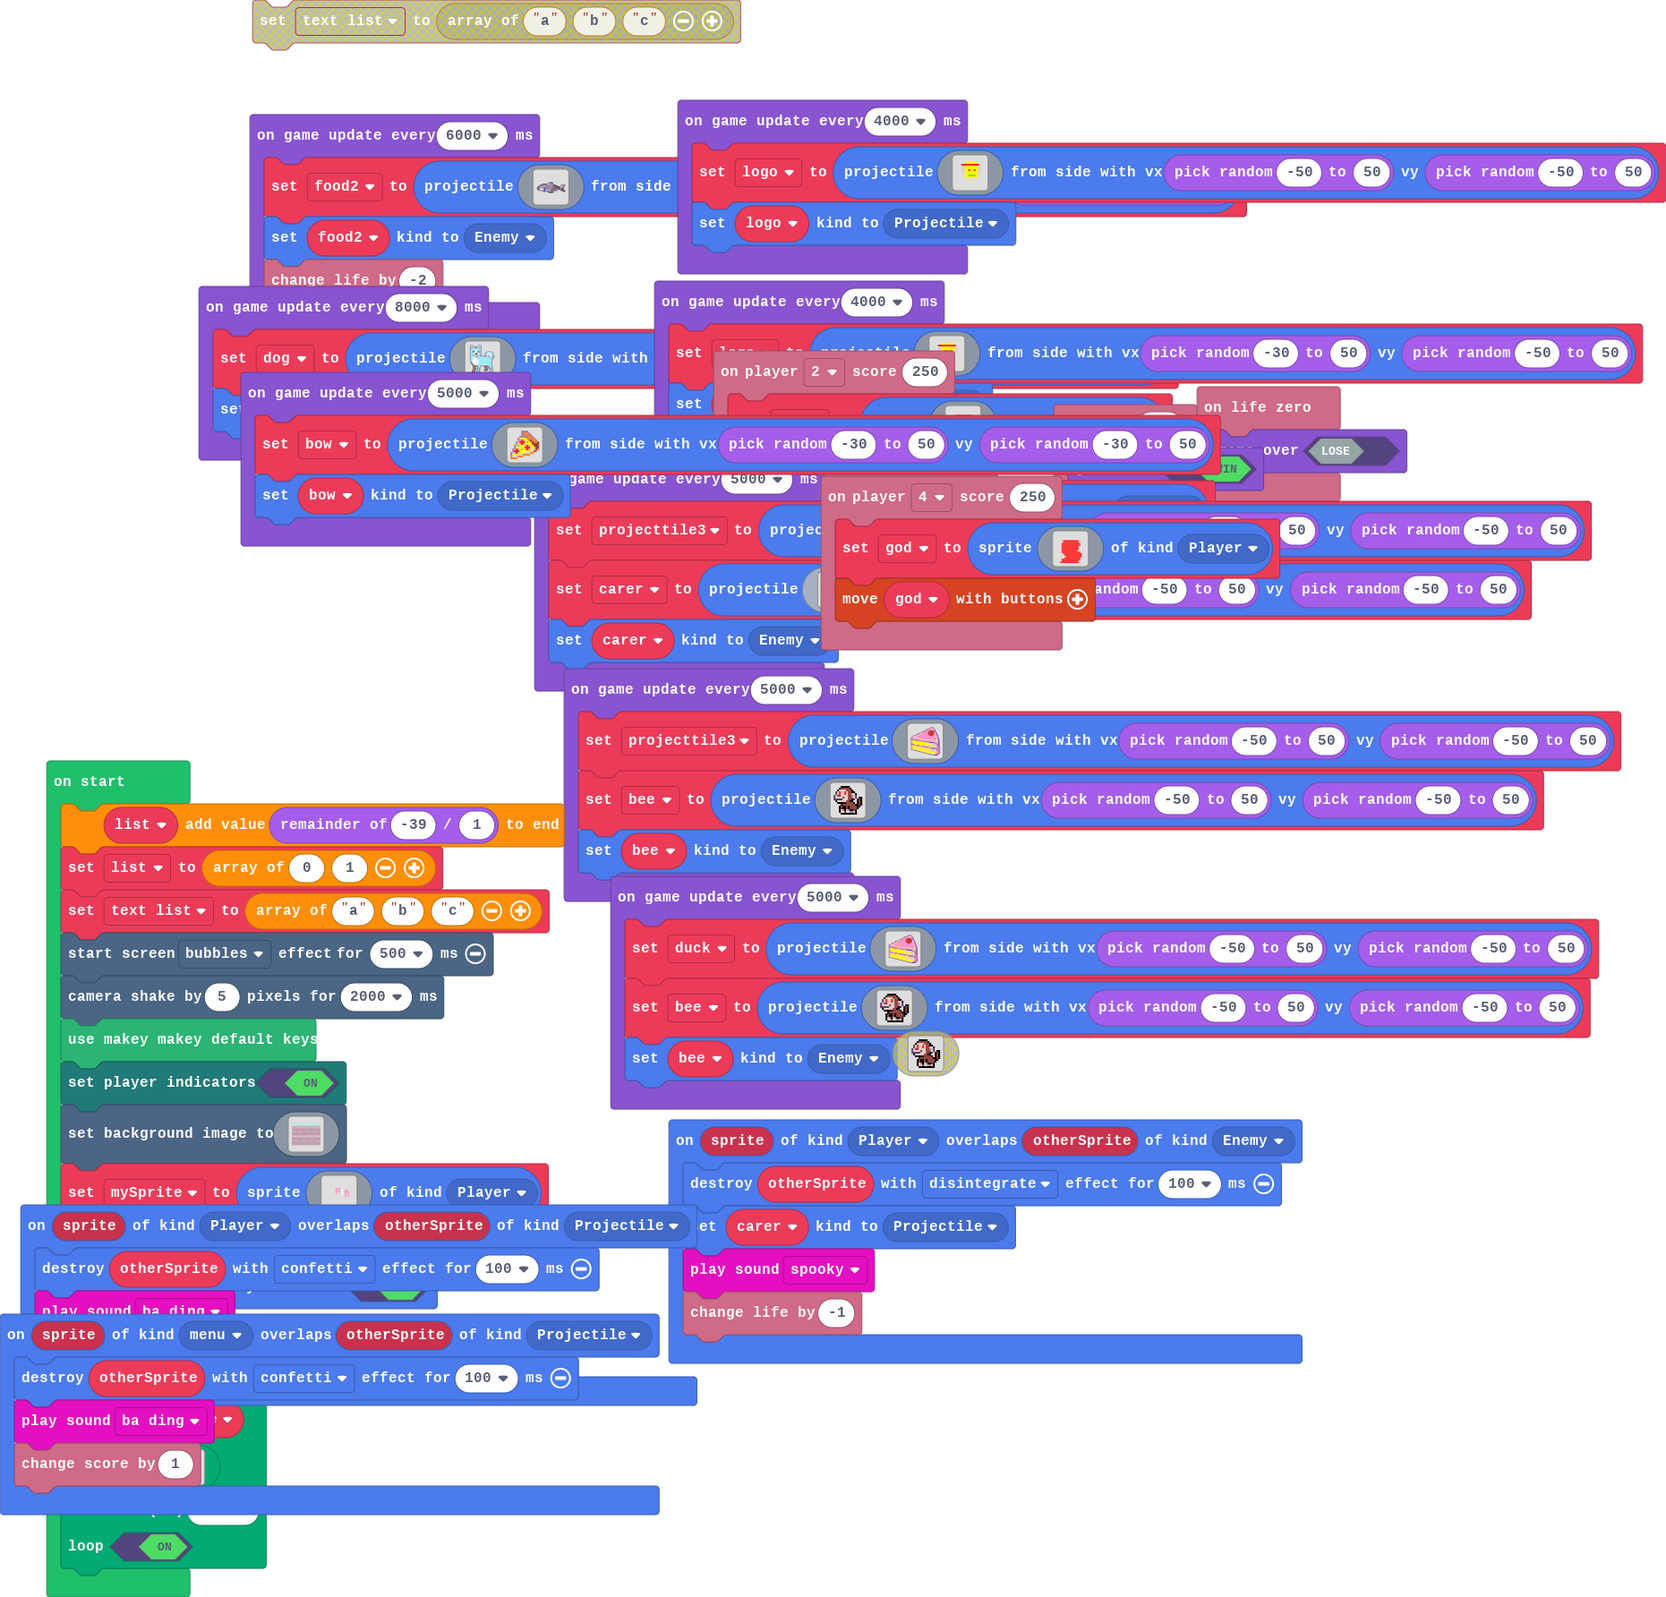
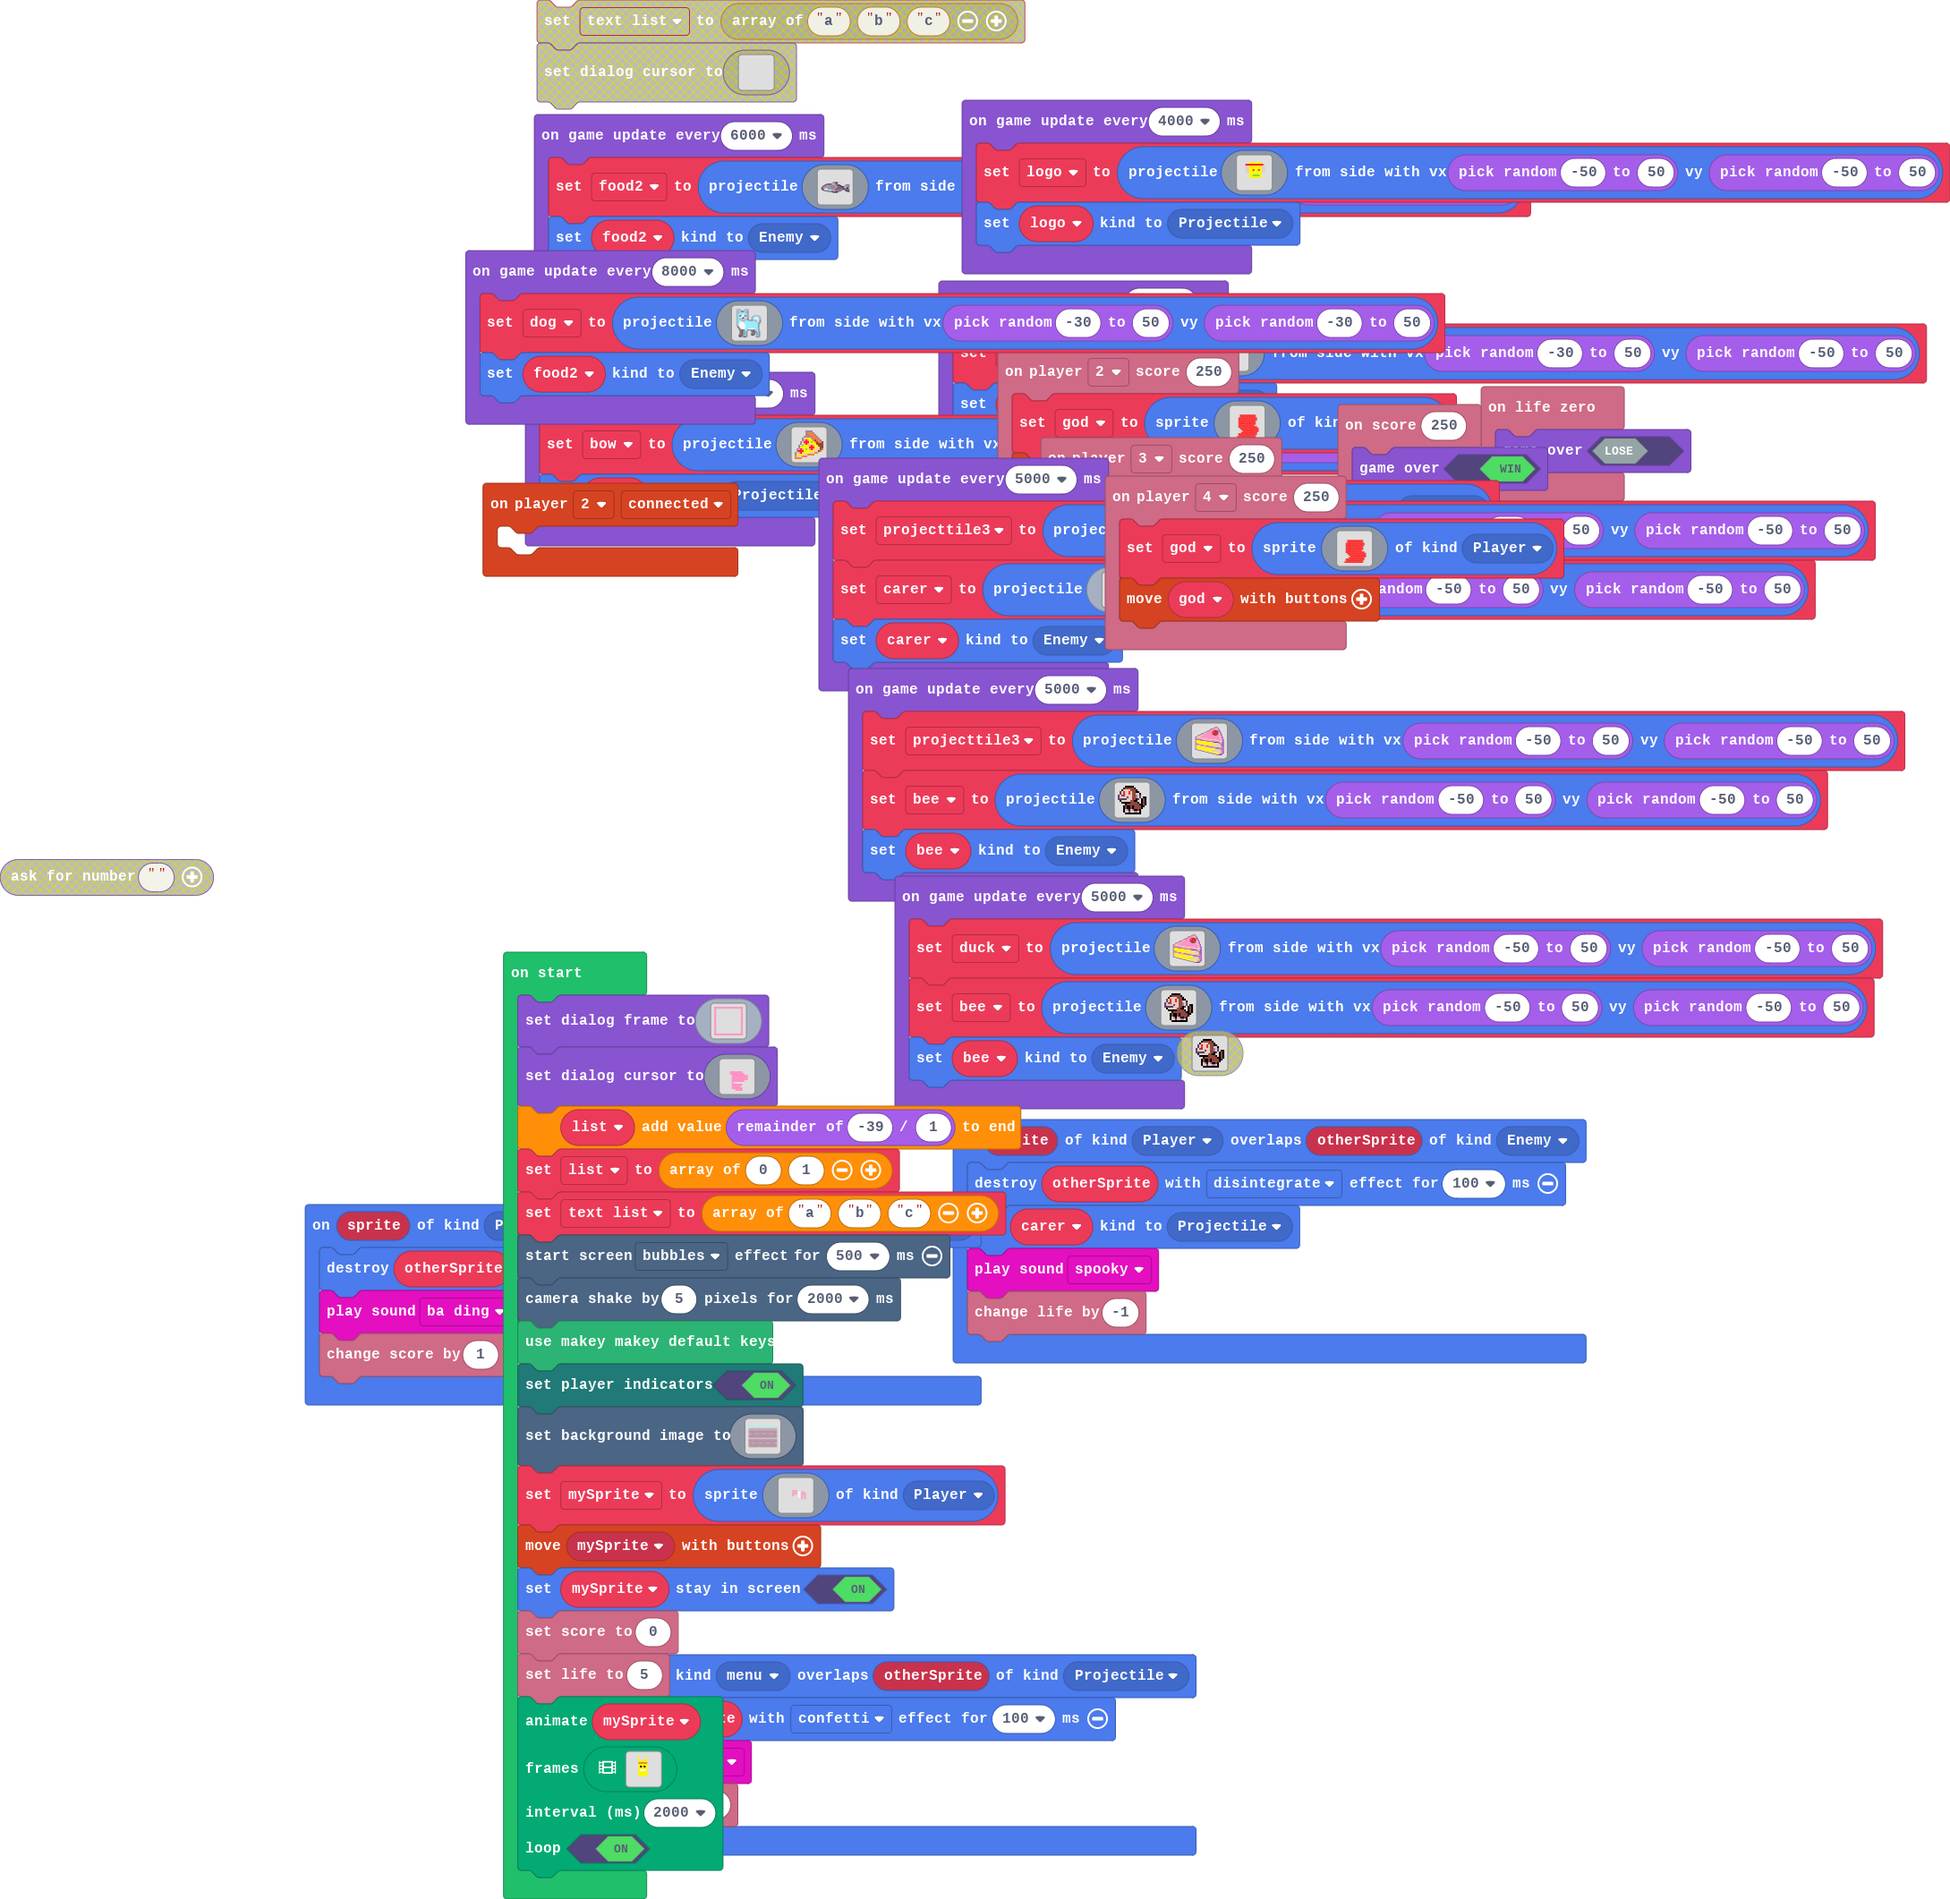
update  fixs

diff --git a/main.ts b/main.ts
@@ -92,6 +92,9 @@ sprites.onOverlap(SpriteKind.menu, SpriteKind.Projectile, function (sprite, othe
     music.baDing.play()
     info.changeScoreBy(1)
 })
+controller.player2.onEvent(ControllerEvent.Connected, function () {
+	
+})
 sprites.onOverlap(SpriteKind.Player, SpriteKind.Enemy, function (sprite, otherSprite) {
     otherSprite.destroy(effects.disintegrate, 100)
     carer.setKind(SpriteKind.Projectile)
@@ -108,6 +111,41 @@ let bow: Sprite = null
 let carer: Sprite = null
 let god: Sprite = null
 let list: number[] = []
+game.setDialogFrame(img`
+    3 3 3 3 3 3 3 3 3 3 3 3 3 3 3 
+    3 . . . . . . . . . . . . . 3 
+    3 . . . . . . . . . . . . . 3 
+    3 . . . . . . . . . . . . . 3 
+    3 . . . . . . . . . . . . . 3 
+    3 . . . . . . . . . . . . . 3 
+    3 . . . . . . . . . . . . . 3 
+    3 . . . . . . . . . . . . . 3 
+    3 . . . . . . . . . . . . . 3 
+    3 . . . . . . . . . . . . . 3 
+    3 . . . . . . . . . . . . . 3 
+    3 . . . . . . . . . . . . . 3 
+    3 . . . . . . . . . . . . . 3 
+    3 . . . . . . . . . . . . . 3 
+    3 3 3 3 3 3 3 3 3 3 3 3 3 3 3 
+    `)
+game.setDialogCursor(img`
+    . . . . . . . . . . . . . . . . 
+    . . . . . . . . . . . . . . . . 
+    . . . . . . . . . . . . . . . . 
+    . . . . . . . . . . . . . . . . 
+    . . . . . . . . . . . . . . . . 
+    . . . . 3 3 3 3 3 3 3 . . . . . 
+    . . . . 3 3 3 3 3 3 3 3 . . . . 
+    . . . . . 3 3 3 3 3 3 3 3 3 . . 
+    . . . . . 3 3 3 3 3 3 3 3 3 . . 
+    . . . . . 3 3 3 3 3 3 3 3 3 . . 
+    . . . . . 3 3 3 3 3 3 3 . . . . 
+    . . . . . 3 . . . . . . . . . . 
+    . . . . . 3 3 3 3 3 3 . . . . . 
+    . . . . . 3 3 3 3 3 . . . . . . 
+    . . . . . 3 3 3 3 3 3 . . . . . 
+    . . . . . . . 3 3 3 3 . . . . . 
+    `)
 list.push(-39 % 1)
 list = [0, 1]
 let text_list = ["a", "b", "c"]
@@ -308,24 +346,7 @@ game.onUpdateInterval(4000, function () {
     logo.setKind(SpriteKind.Projectile)
 })
 game.onUpdateInterval(6000, function () {
-    food2 = sprites.createProjectileFromSide(img`
-        ....................................
-        ....................................
-        ....................................
-        ...............ccffff...............
-        ..............cddbbbf...............
-        .......ffffffcddbbbf................
-        .....ffbbbbbbbbbbbbbcfff.......ccccc
-        ...ffbbbbbbbbcbcbbbbbcccff....cdbbbc
-        ..fbbbbbbbbbbcbbcbbbbcccccfffcddbbc.
-        .fbcbbbbbbbbbbcbcbbbbccccccccbdbbf..
-        .fbbbbbbb888bbcbbbbbccccccccccbbcf..
-        .ffbb1111888bbcbbbbcccccccbcffbccf..
-        ..ff111118a81bbbbccccccbbbcc..fbbcf.
-        ....ccccc88811bdbbbfddbccc.....ffbbf
-        ........ccccccfbdbbbfcc..........fff
-        ...............ffffff...............
-        `, randint(-30, 50), randint(-30, 50))
+    food2 = sprites.createProjectileFromSide(assets.image`evil`, randint(-30, 50), randint(-30, 50))
     food2.setKind(SpriteKind.Enemy)
     info.changeLifeBy(-2)
 })

diff --git a/images.g.ts b/images.g.ts
@@ -202,6 +202,25 @@ bbbbbbbbbbbbbbbbbbbbbbbbbbbbbbbbbbbcccbbbbbbbbbbbbbbbbbbbbbbbbbbbbbbbbbbbbbbbbbb
 bbbbbbbbbbbbbbbbbbbbbbbbbbbbbbbbbbbbbbccbbbbbbbbbbbbbbbbbbbbbbbbbbbbbbbbbbbbbbbbbbbbbbbbbbbbbbbbbbbbbbbbbbbbbbbbbbbbbbbbbbbbbbbbbbbbbbbbbbbbbbbbbbbbbbbbbbbbbbbb
 bbbbbbbbbbbbbbbbbbbbbbbbbbbbbbbbbbbbbbbbbbbbbbbbbbbbbbbbbbbbbbbbbbbbbbbbbbbbbbbbbbbbbbbbbbbbbbbbbbbbbbbbbbbbbbbbbbbbbbbbbbbbbbbbbbbbbbbbbbbbbbbbbbbbbbbbbbbbbbbb
 `;
+            case "image4":
+            case "evil":return img`
+....................................
+....................................
+....................................
+...............ccffff...............
+..............cddbbbf...............
+.......ffffffcddbbbf................
+.....ffbbbbbbbbbbbbbcfff.......ccccc
+...ffbbbbbbbbcbcbbbbbcccff....cdbbbc
+..fbbbbbbbbbbcbbcbbbbcccccfffcddbbc.
+.fbcbbbbbbbbbbcbcbbbbccccccccbdbbf.a
+.fbbbbbbb666bbcbbbbbccccccccccbbcfa.
+.ffbb1111666bbcbbbbcccccccbcffbccf.a
+..ff111116961bbbbccccccbbbcc..fbbcf.
+....ccccc95911bdbbbfddbccc.....ffbbf
+........ccccccfbdbbbfcc..........fff
+...............ffffff...............
+`;
         }
         return null;
     })
